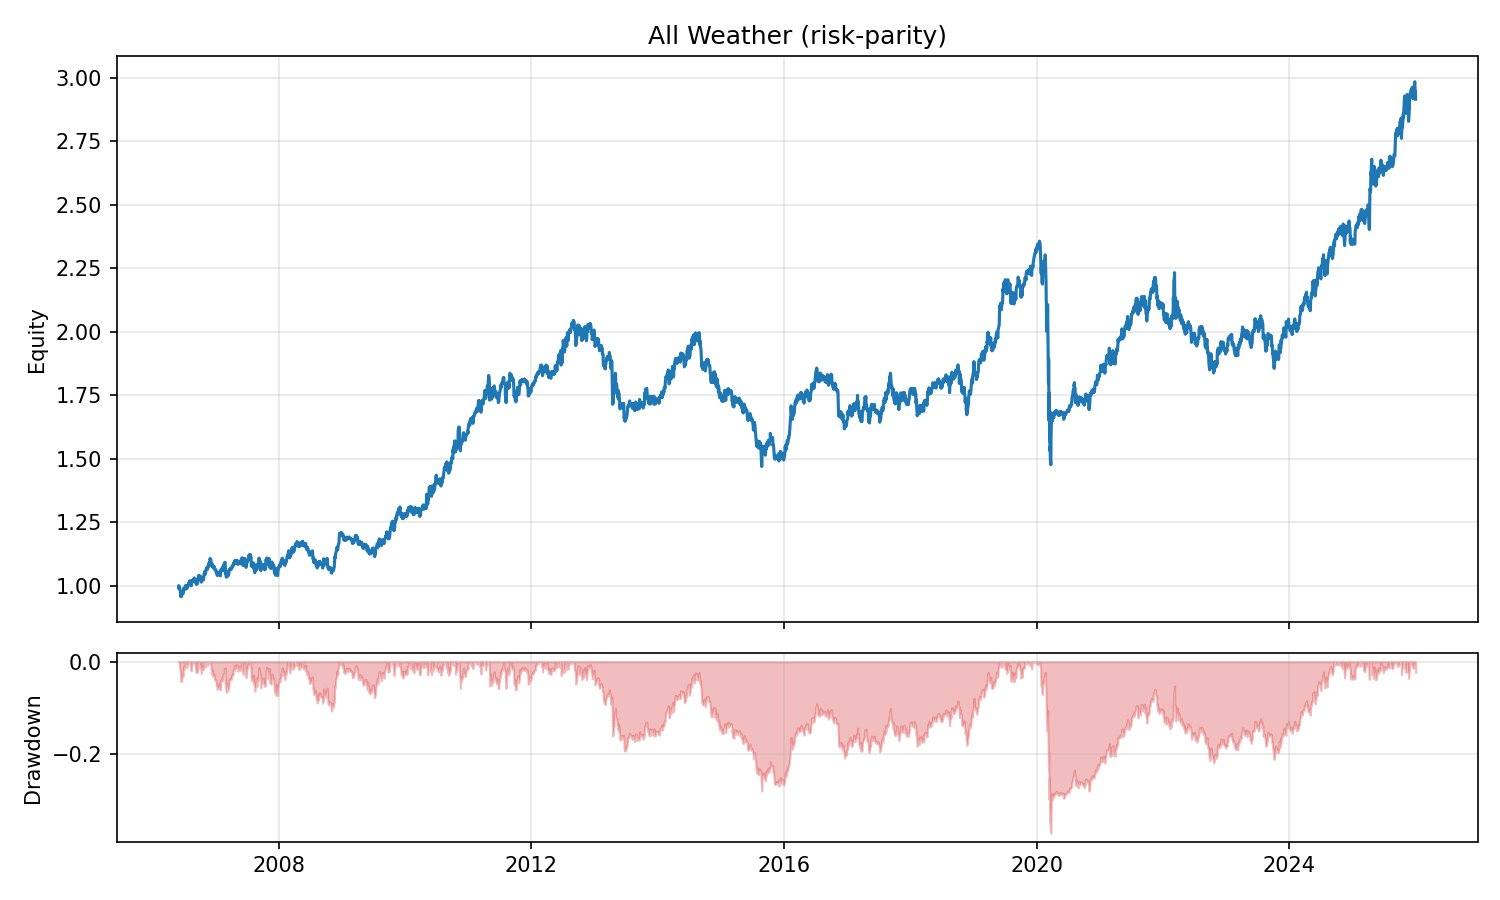
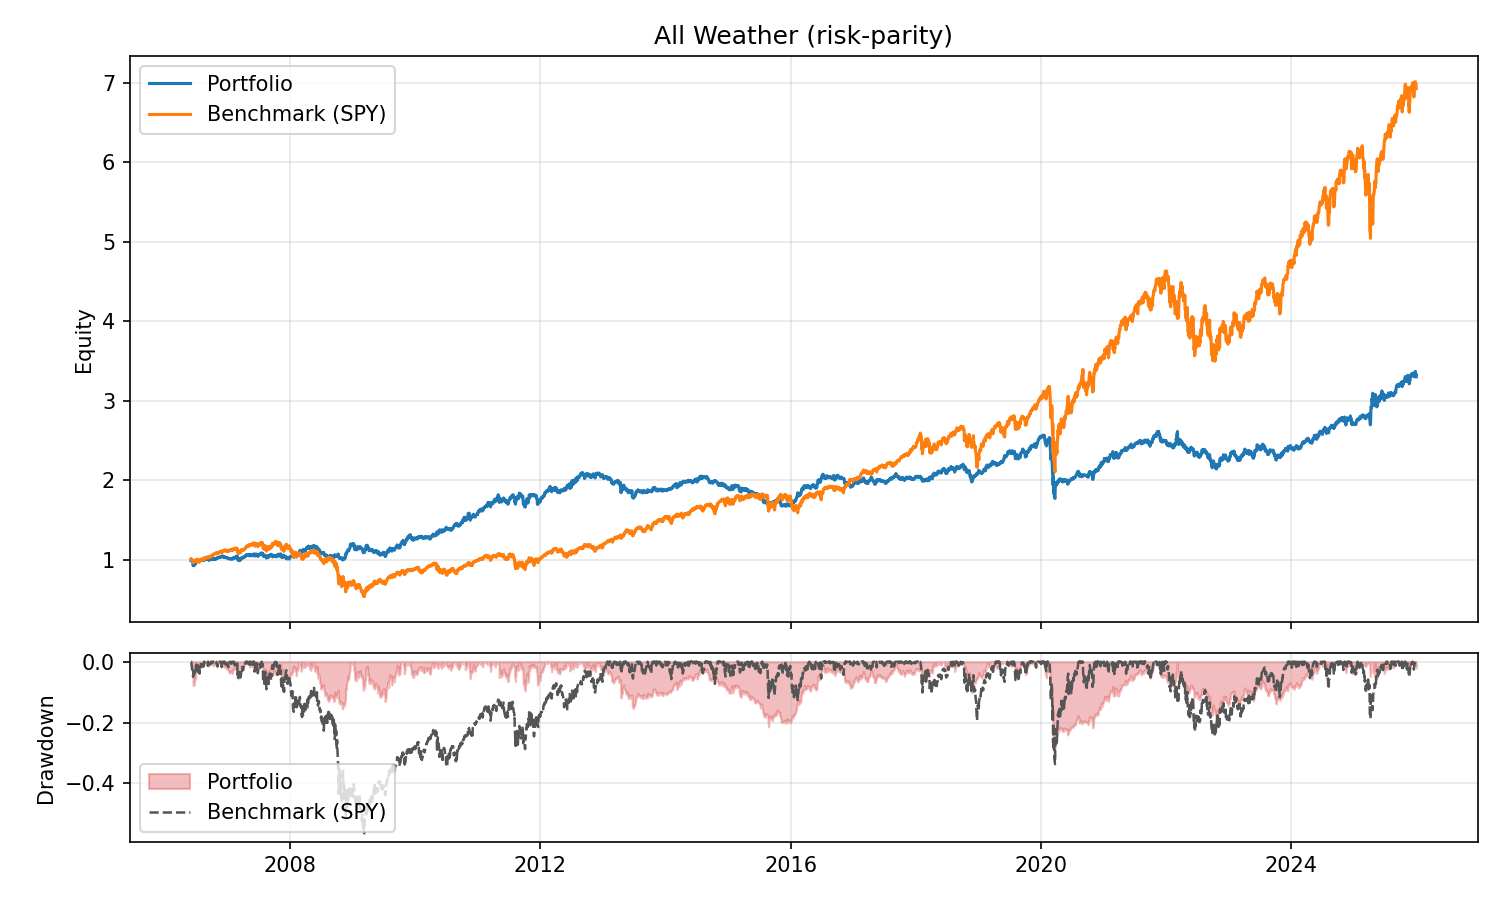
no leverage is now the default

diff --git a/all_weather_backtest.py b/all_weather_backtest.py
@@ -104,7 +104,7 @@ def parse_args() -> argparse.Namespace:
     parser.add_argument(
         "--max-leverage",
         type=float,
-        default=2.0,
+        default=1.0,
         help="Max gross leverage (e.g. 2.0 means 2x)",
     )
     parser.add_argument(

diff --git a/README.md b/README.md
@@ -107,7 +107,7 @@ python all_weather_backtest.py --data-source alpaca --alpaca-feed iex
 * `--lookback`：回看窗口（交易日）
 * `--rebalance`：再平衡频率（pandas offset alias，如 `M`、`W-FRI`）
 * `--target-vol`：目标年化波动率
-* `--max-leverage`：最大总杠杆
+* `--max-leverage`：最大总杠杆（默认 1.0，无杠杆）
 * `--trade-cost`：交易成本（按换手率计费，0.0005 = 5 bps）
 * `--borrow-rate`：借贷年化利率
 * `--cash-rate`：现金年化利率
